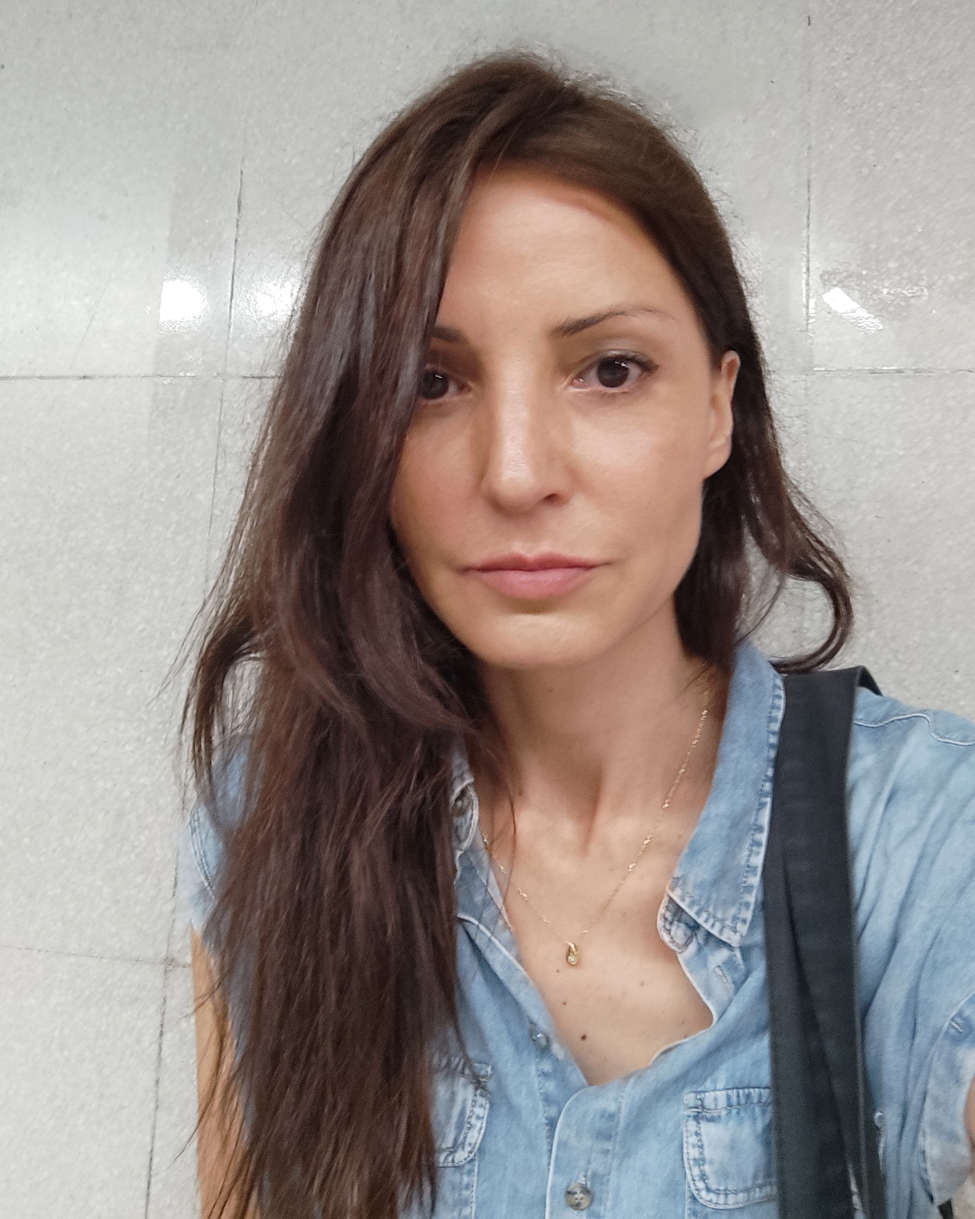
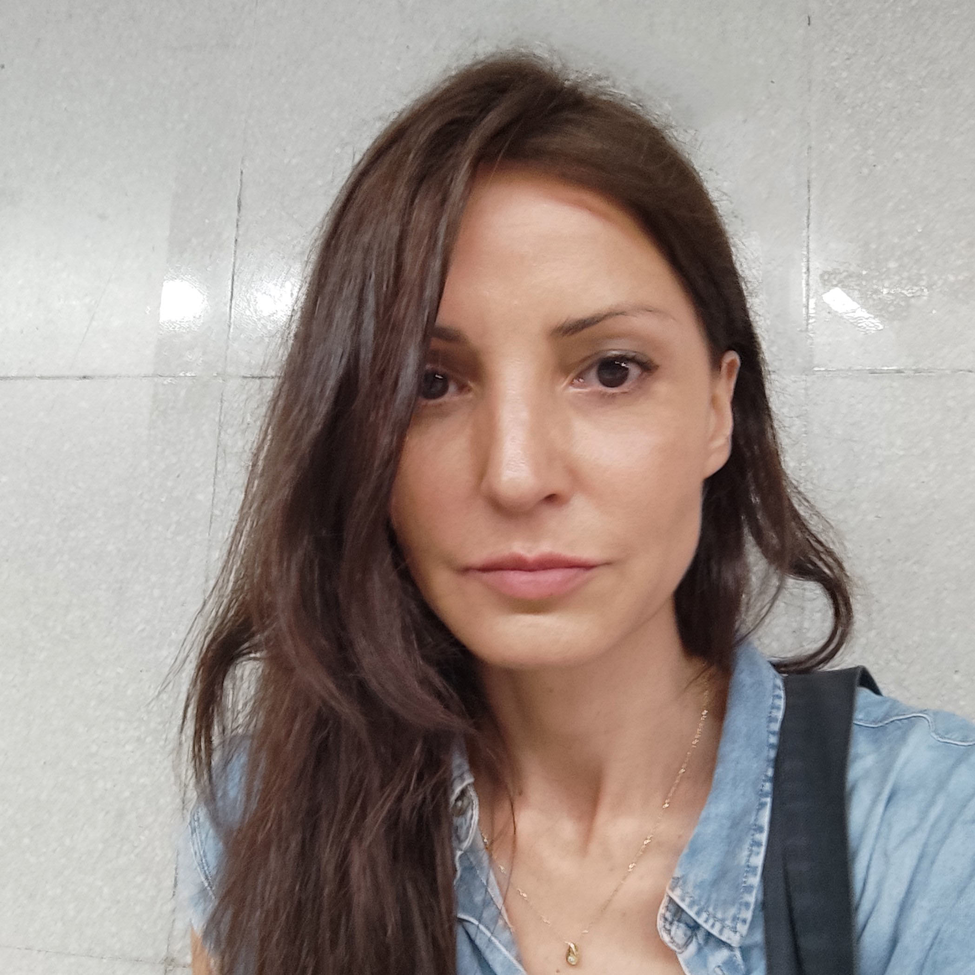
feat: montse - cfp committee

diff --git a/src/views/Cfp/CfpData.ts b/src/views/Cfp/CfpData.ts
@@ -61,7 +61,9 @@ export const data: CFpTrack[] = [
                 linkedIn: "https://www.linkedin.com/in/iagolast/",
             },
             {
-                name: "Montse Ortega"
+                name: "Montse Ortega",
+                linkedIn: "https://www.linkedin.com/in/montse-ortega-73061369",
+                photo: "/images/cfp/montse.jpg",
             }
         ],
     },
